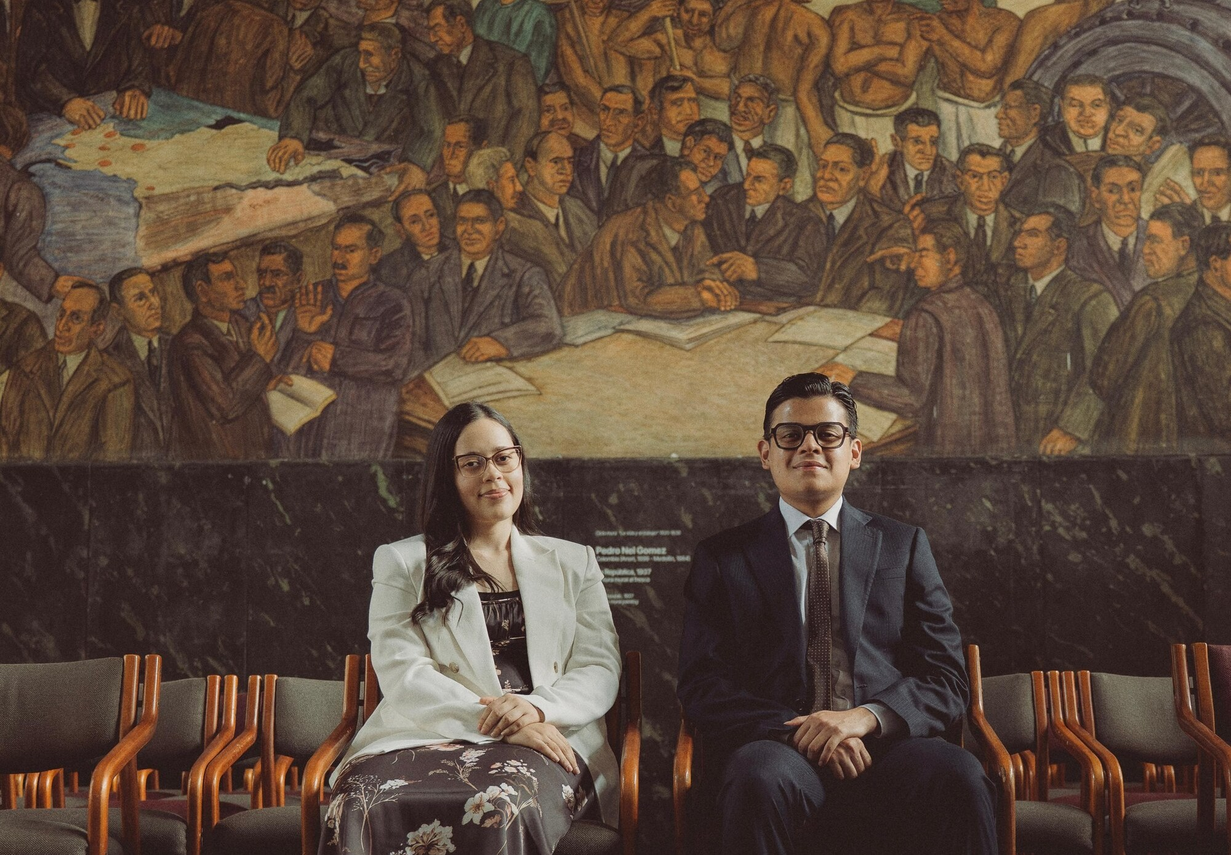
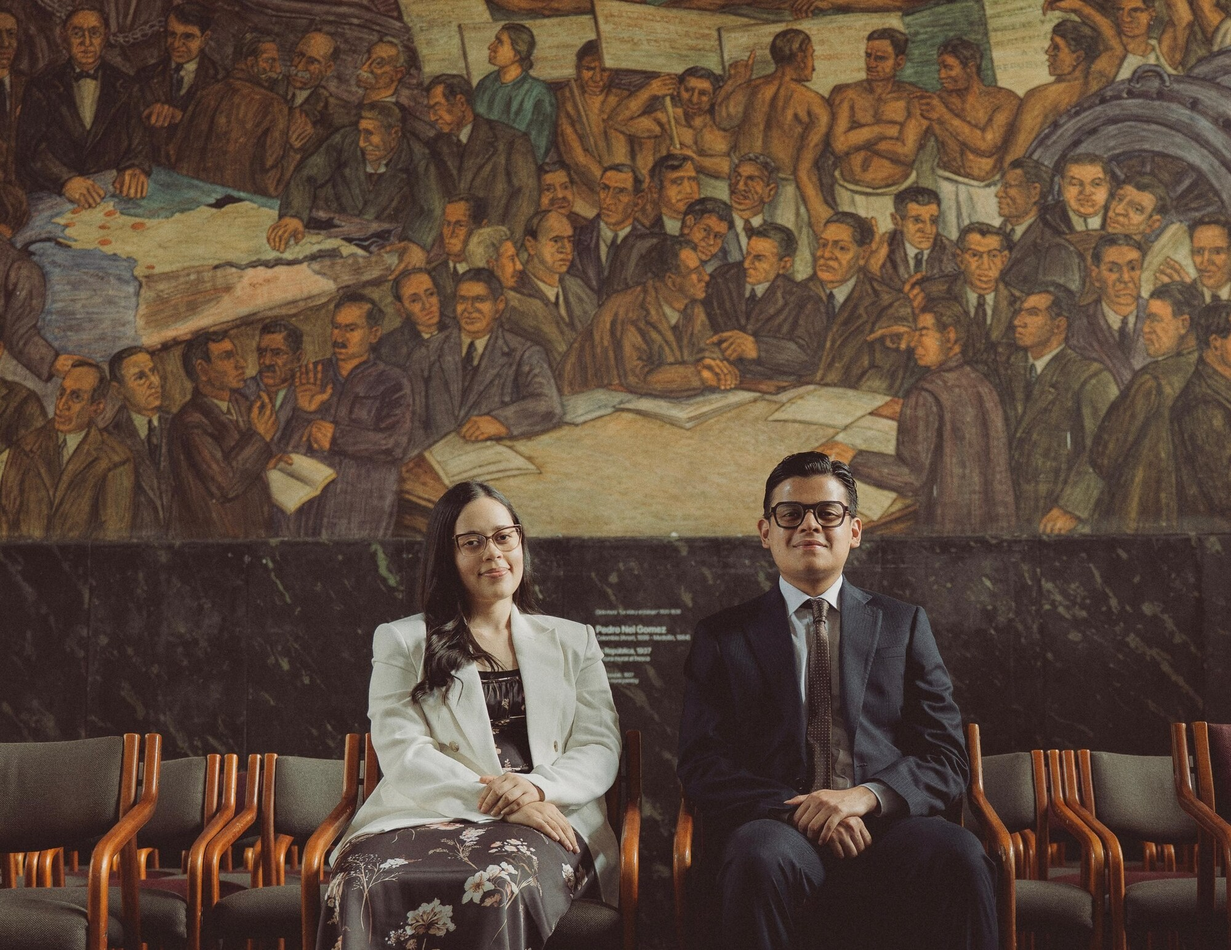
Ajustar cierre al encuadre de referencia de la pareja

diff --git a/src/app/page.tsx b/src/app/page.tsx
@@ -226,10 +226,10 @@ export default function Home() {
           alt={wedding.namesDisplay}
           fill
           unoptimized
-          className="object-cover object-[center_48%] sm:object-[center_45%]"
+          className="object-cover object-center"
           sizes="100vw"
         />
-        <div className="absolute inset-0 bg-night/50" />
+        <div className="absolute inset-0 bg-night/45" />
         <div className="relative z-10 px-6 text-center">
           <Reveal>
             <p className="text-[11px] uppercase tracking-[0.45em] text-champagne">
